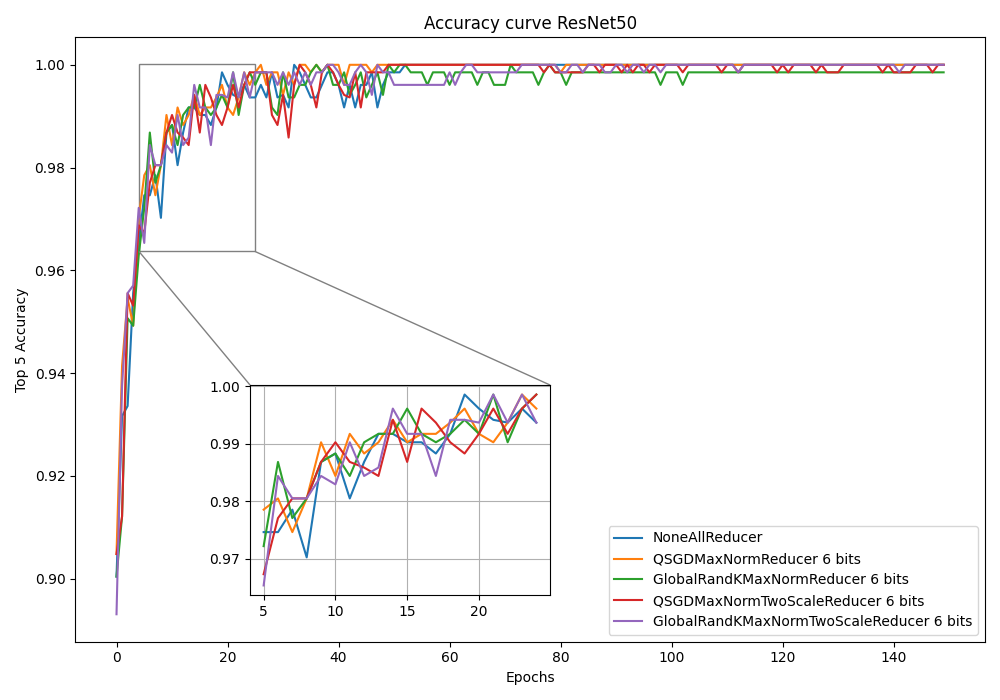
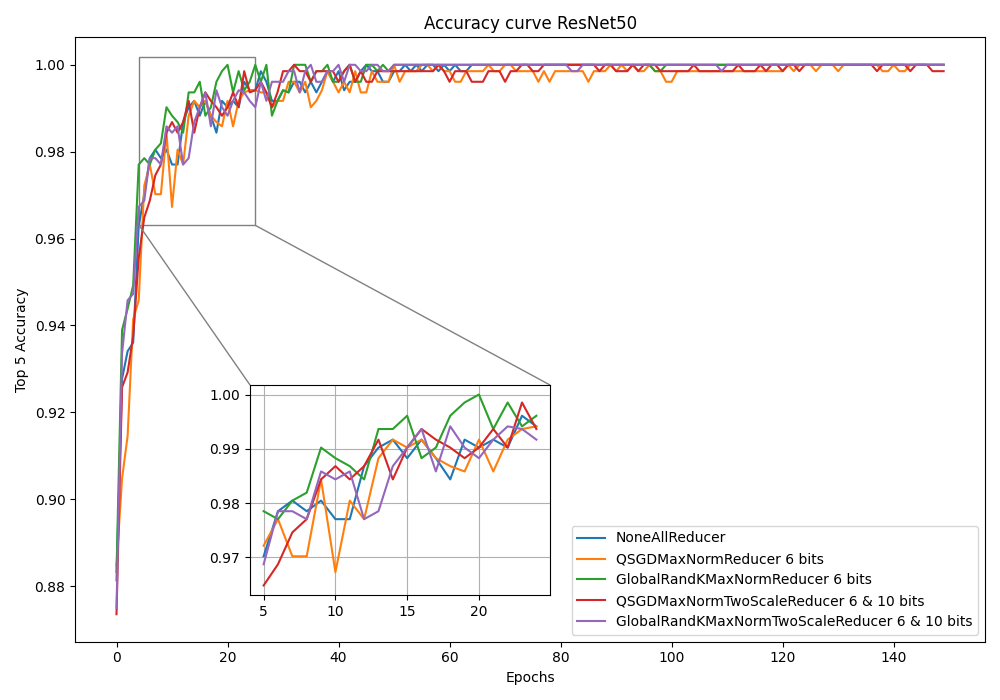
Update dev

diff --git a/model_dispatcher.py b/model_dispatcher.py
@@ -1,5 +1,6 @@
 import torch
 import torchvision
+import torch.distributed as dist
 import torchvision.transforms as transforms
 from torch.utils.data import DataLoader, DistributedSampler
 
@@ -71,7 +72,7 @@ class CIFAR:
             sampler=train_sampler,
             pin_memory=True,
             drop_last=True,
-            num_workers=2,
+            num_workers=dist.get_world_size(),
         )
 
         self.len_train_loader = len(train_loader)
@@ -93,7 +94,7 @@ class CIFAR:
             sampler=test_sampler,
             pin_memory=True,
             drop_last=True,
-            num_workers=2,
+            num_workers=dist.get_world_size(),
         )
 
         self.len_test_loader = len(test_loader)

diff --git a/trainer.py b/trainer.py
@@ -42,13 +42,13 @@ config = dict(
     distributed_backend="nccl",
     num_epochs=150,
     batch_size=128,
-    architecture="VGG16",
+    architecture="ResNet50",
     local_steps=1,
     # K=10000,
     # compression=1/1000,
-    quantization_level=6,
-    higher_quantization_level=10,
-    reducer="QSGDMaxNormTwoScaleReducer",
+    # quantization_level=6,
+    # higher_quantization_level=10,
+    reducer="NoneAllReducer",
     seed=42,
     log_verbosity=2,
     lr=0.01,
